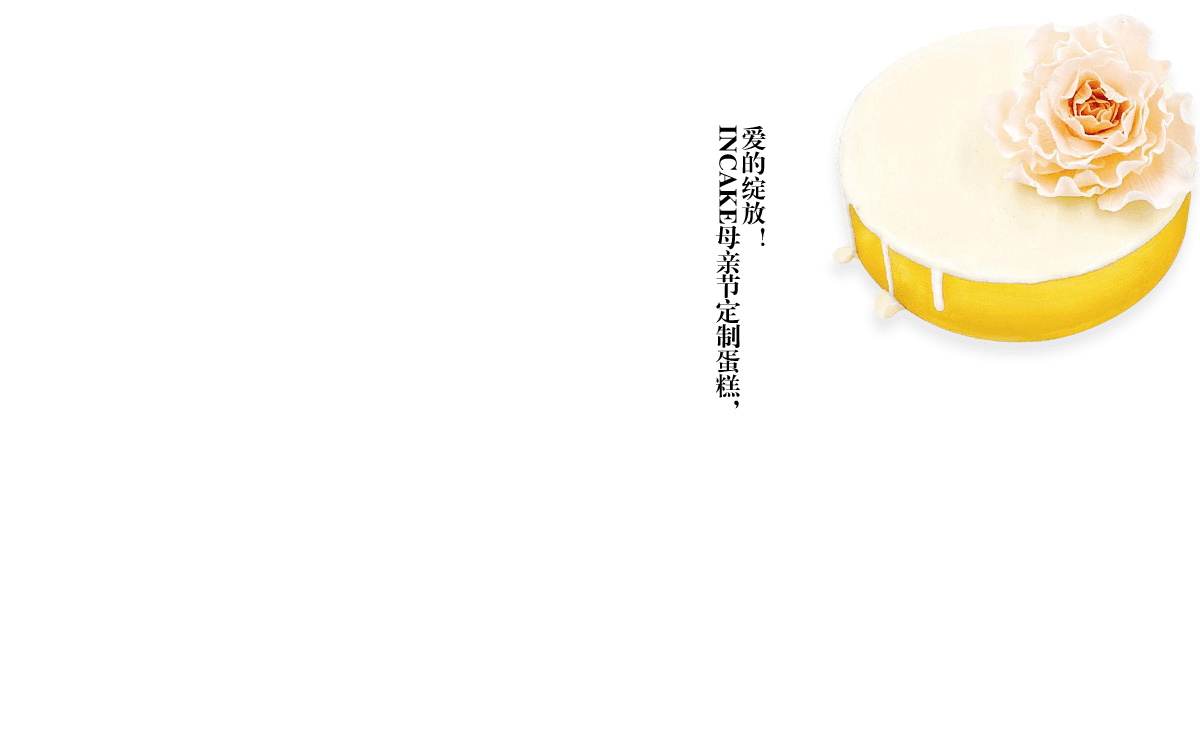
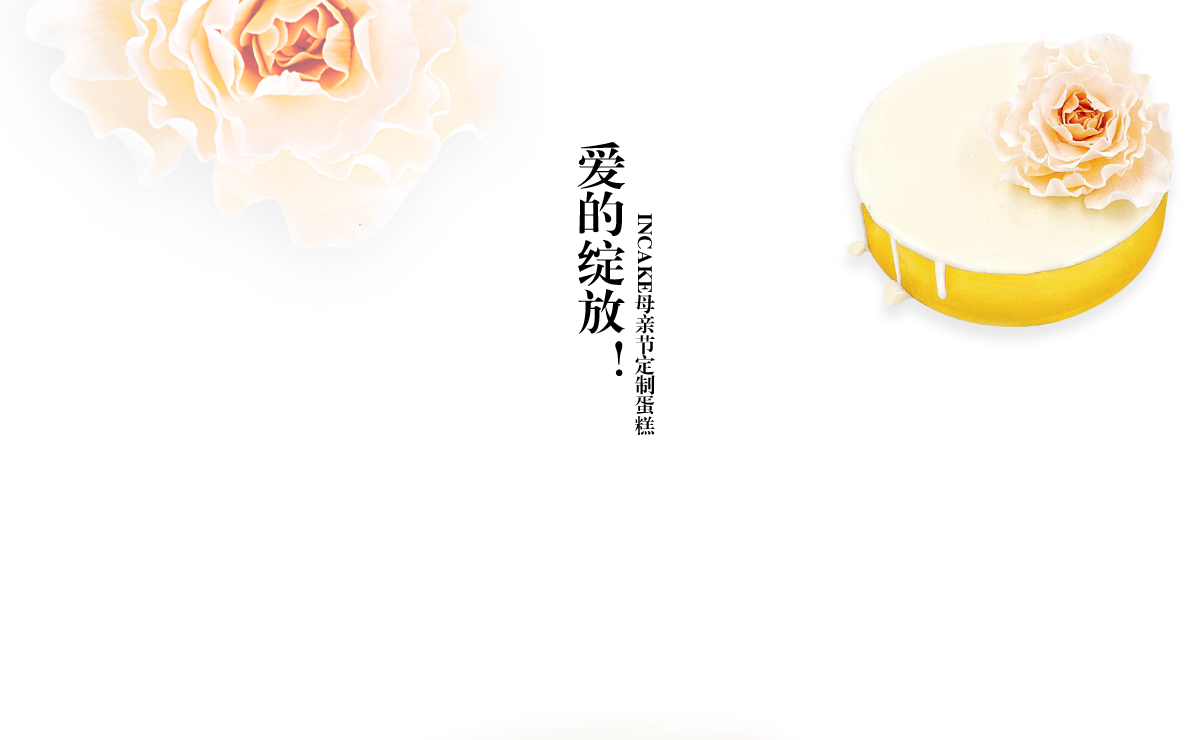
母亲节活动GAW页面修改

diff --git a/assets/css/mothers-day-gaw.css b/assets/css/mothers-day-gaw.css
@@ -1,9 +1,5 @@
-#mothersDay { width: 100%; min-width: 1200px; font-family: Arial, "Microsoft Yahei"; font-size: 14px; overflow: hidden; }
+#mothersDay { width: 100%; min-width: 1200px; font-family: Arial, "Microsoft Yahei"; font-size: 14px; overflow: hidden; background: url("../img/mothers-day-gaw/container_bg.jpg"); }
 #mothersDay .section { width: 100%; }
-#mothersDay .section.even { background-color: #fff; }
-#mothersDay .section.odd { background-color: #95af65; }
-#mothersDay .section:nth-of-type(even) { background-color: #fff; }
-#mothersDay .section:nth-of-type(odd) { background-color: #95af65; }
 #mothersDay .section-box { position: relative; width: 1200px; margin: 0 auto; }
 #mothersDay .section-box .cake { position: absolute; z-index: 9; display: block; }
 #mothersDay .section-box .cake:hover > img { -webkit-transform: rotate(5deg); -moz-transform: rotate(5deg); -ms-transform: rotate(5deg); -o-transform: rotate(5deg); transform: rotate(5deg); }
@@ -14,10 +10,10 @@
 #mothersDay .section-box .cake-detail .content .price { float: left; }
 #mothersDay .section-box .cake-detail .content .link { display: block; float: right; color: #fff; background: url("../img/mothers-day-gaw/section2_cake_link_bg.png") no-repeat; font-size: 24px; text-align: left; text-indent: .6em; }
 #mothersDay .section-box .cake-detail .content .link span { font-weight: bold; }
-#mothersDay .section-box .cake-detail .content .link:hover { color: #c9e692; }
+#mothersDay .section-box .cake-detail .content .link:hover { color: #ffe1dd; }
 
 #mothersDay .section1 .section-box { height: 740px; background: url("../img/mothers-day-gaw/section1_bg.png") no-repeat; background-position: 0 0; }
-#mothersDay .section1 .cake { bottom: -131px; left: 258px; }
+#mothersDay .section1 .cake { bottom: -131px; left: 320px; }
 #mothersDay .section1 .cake-detail { right: 31px; bottom: -89px; width: 290px; height: 128px; }
 #mothersDay .section1 .cake-detail .title { height: 48px; }
 #mothersDay .section1 .cake-detail .content { height: 80px; }
@@ -40,15 +36,16 @@
 #mothersDay .section3 .section-box dt { font-size: 18px; text-align: center; padding: 60px 0 10px; }
 #mothersDay .section3 .section-box dd { font-size: 14px; }
 
+#mothersDay .section4 { background: #fff; background: rgba(255, 255, 255, .85); }
 #mothersDay .section4 .section-box { height: 122px; }
 #mothersDay .section4 .frm-register { width: 100%; }
-#mothersDay .section4 .frm-register > h2 { line-height: 52px; font-size: 30px; font-weight: 400; color: #95af65; text-align: center; }
+#mothersDay .section4 .frm-register > h2 { line-height: 52px; font-size: 30px; font-weight: 400; color: #ee9b4b; text-align: center; }
 #mothersDay .section4 .frm-register > ul { width: 100%; }
 #mothersDay .section4 .frm-register li { float: left; margin-right: 49px; }
 #mothersDay .section4 .frm-register li.last { margin-right: 0; }
 #mothersDay .section4 .frm-register li input { width: 348px; height: 58px; line-height: 58px; outline: none; font-size: 18px; color: #505050; text-indent: 66px; background-color: #fff; border: 1px solid #ccc; border-radius: 10px; }
 #mothersDay .section4 .frm-register li .txt-mobile { float: left; width: 240px; border-radius: 10px 0 0 10px; background-image: url(../img/register-welfare/icon_mobile.png); background-repeat: no-repeat; background-position: 20px center; }
 #mothersDay .section4 .frm-register li .txt-vcode { background-image: url(../img/register-welfare/icon_vcode.png); background-repeat: no-repeat; background-position: 20px center; }
-#mothersDay .section4 .frm-register li .btn-vcode { float: left; display: block; width: 154px; height: 58px; margin-left: -1px; line-height: 58px; text-align: center; color: #fff; font-size: 18px; background: #95af65; border: 1px solid #ccc; border-left: none; border-radius: 0 10px 10px 0; }
-#mothersDay .section4 .frm-register li .btn-quick-register { display: block; width: 354px; height: 58px; line-height: 58px; font-size: 18px; text-align: center; color: #fff; background-color: #95af65; border-radius: 10px; }
+#mothersDay .section4 .frm-register li .btn-vcode { float: left; display: block; width: 154px; height: 58px; margin-left: -1px; line-height: 58px; text-align: center; color: #fff; font-size: 18px; background: #ee9b4b; border: 1px solid #ccc; border-left: none; border-radius: 0 10px 10px 0; }
+#mothersDay .section4 .frm-register li .btn-quick-register { display: block; width: 354px; height: 58px; line-height: 58px; font-size: 18px; text-align: center; color: #fff; background-color: #ee9b4b; border-radius: 10px; }
 #mothersDay .section4.flt { position: fixed; bottom: 0; left: 0; z-index: 999999; }

diff --git a/mothers-day-gaw.html b/mothers-day-gaw.html
@@ -3,7 +3,7 @@
 
 <head>
     <meta charset="UTF-8">
-    <title>INCAKE母亲节主题蛋糕，为爱加冕！</title>
+    <title>INCAKE母亲节主题蛋糕，爱的绽放！</title>
     <meta http-equiv="X-UA-Compatible" content="IE=edge">
     <meta content="" name="description" />
     <meta content="" name="author" />

diff --git a/register-mothers-day-gaw.html b/register-mothers-day-gaw.html
@@ -3,7 +3,7 @@
 
 <head>
     <meta charset="UTF-8">
-    <title>INCAKE母亲节主题蛋糕，为爱加冕！</title>
+    <title>INCAKE母亲节主题蛋糕，爱的绽放！</title>
     <meta http-equiv="X-UA-Compatible" content="IE=edge">
     <meta content="" name="description" />
     <meta content="" name="author" />
